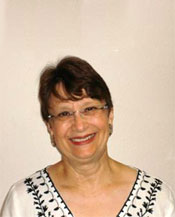
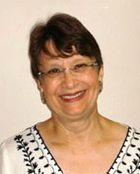
+ Updated Board of Directors pictures and added titles

diff --git a/internationaleyeinstitute.org/board.html b/internationaleyeinstitute.org/board.html
@@ -49,46 +49,64 @@
     <h1>Board of Directors</h1>
     <table width="100%" cellspacing="2">
       <tr>
-        <td width="41%" align="center"><p><img src="images/board/Dr-Justin-StormoGipson.jpg" width="175" height="217" alt="Dr. Justin StormoGipson" /></p>
+        <td align="center"><p><img src="images/board/Dr-Justin-StormoGipson.jpg" width="175" height="217" alt="Dr. Justin StormoGipson" /></p>
         <p>Justin StormoGipson, M.D.<br />
+          Treasurer <br />
           Coeur d'Alene, Idaho
         </p>
         <p>&nbsp;</p></td>
-        <td width="29%" align="center"><p><img src="images/board/Dr-Ed-Riley.jpg" width="175" height="217" alt="Dr. Ed Riley" /></p>
+        <td align="center"><p><img src="images/board/Dr-Ed-Riley.jpg" width="175" height="217" alt="Dr. Ed Riley" /></p>
           <p>Edward T. Riley, M.D.<br />
+            Board Member <br />
         Stanford, California</p>
         <p>&nbsp;</p></td>
 
-
         <td align="center"><p><img src="images/board/Ms-Mary-Sibulsky.jpg" width="175" height="217" alt="Rosemary &quot;Mary&quot; Sibulsky" /></p>
         <p>Rosemary &quot;Mary&quot; Sibulsky, R.N.<br />
+          Board Member <br />
           Coeur d'Alene, Idaho</p>
         <p>&nbsp;</p></td>
       </tr>
       <tr>
         <td align="center"><p><img src="images/board/Dr-Patrick-Parden.jpg" width="175" height="217" alt="Dr. Patrick Parden" /></p>
         <p>Patrick Parden, M.D.<br />
+          Board Member <br />
           Hayden Lake, Idaho</p>
         <p>&nbsp;</p></td>
         <td align="center"><p><img src="images/board/Dr-Pulin-Shah.jpg" width="175" height="217" alt="Dr. Pulin Anil Shaw" /></p>
           <p>Pulin Anil Shah, M.D.<br />
+            President <br />
           New Orleans, Louisiana</p>
           <p>&nbsp;</p></td>
         <td align="center"><p><img src="images/board/Karen-Sines.jpg" width="175" height="217" alt="Ms. Karen Sines" /></p>
           <p>Ms. Karen Sines<br />
-          Coeur d'Alene, Idaho</p>
+            Board Member <br />
+            Coeur d'Alene, Idaho</p>
         <p>&nbsp;</p></td>
       </tr>
       <tr>
-        <td align="center"><p>&nbsp;</p>
-        <p>&nbsp;</p></td>
+        <!-- <td align="center"><p>&nbsp;</p>
+        <p>&nbsp;</p></td> -->
         <td width="30%" align="center"><p>&nbsp;</p>
         <p><img src="images/board/William-Bell.jpg" width="175" height="217" alt="Mr. William Bell" /></p>
         <p>William Bell<br />
-Hayden, Idaho </p>
-		  </td>
-        <td align="center">&nbsp;</td>
-      </tr>    </table>
+          Board Member <br />
+          Hayden, Idaho </p>  
+        </td>
+        <td width="30%" align="center"><p>&nbsp;</p>
+        <p><img src="images/board/Dr-Dave-Dance.jpg" width="175" height="217" alt="Dr. David Dance" /></p>
+        <p>David Dance, M.D.<br />
+          Vice President <br />
+          Coeur d'Alene, Idaho </p>
+          </td>
+        <td width="30%" align="center"><p>&nbsp;</p>
+        <p><img src="images/board/Julie-Crandall.jpg" width="175" height="217" alt="Ms. Julie Crandall" /> </p>
+        <p>Julie Crandall, R.N.<br />
+          Secretary  <br />
+          Coeur d'Alene, Idaho </p> 
+        </td> 
+      </tr>    
+    </table>
     <p>&nbsp;</p>
     
     <h2>Director of Indigenous Scholarship Fund</h2>
